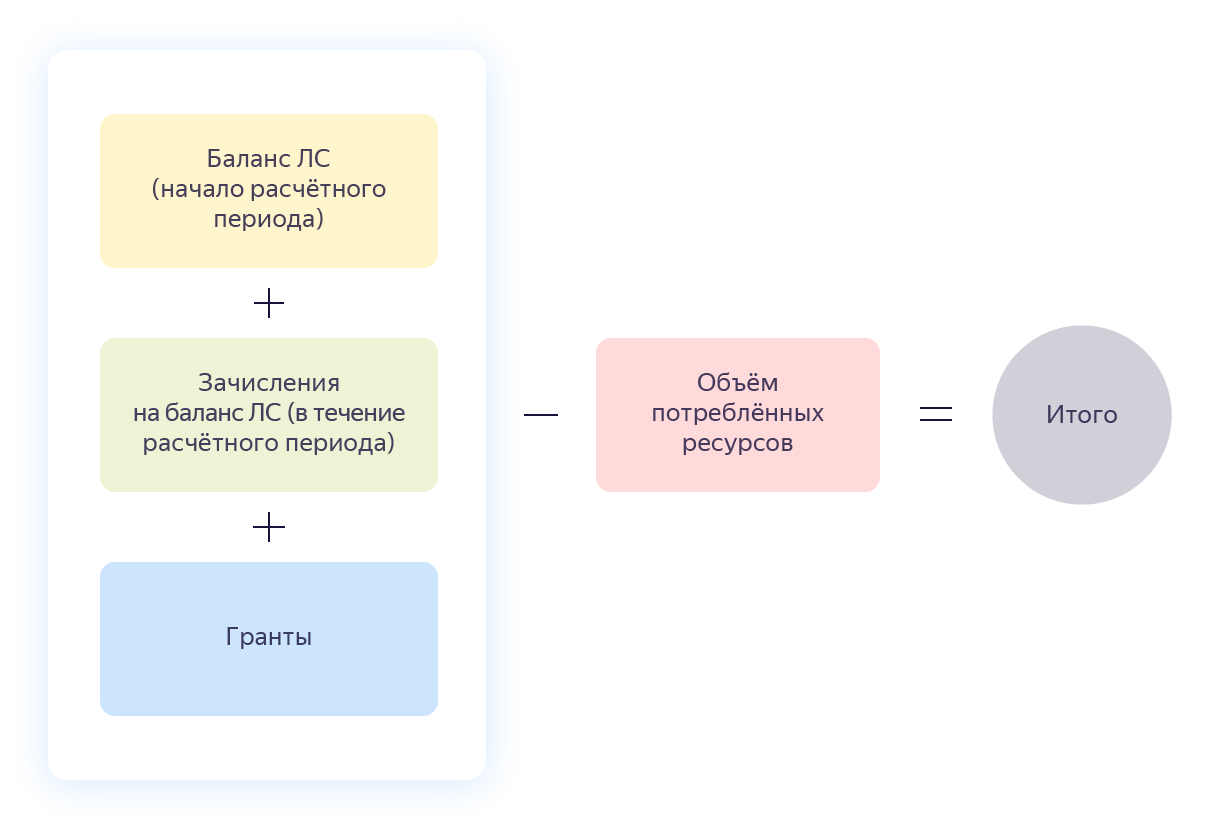
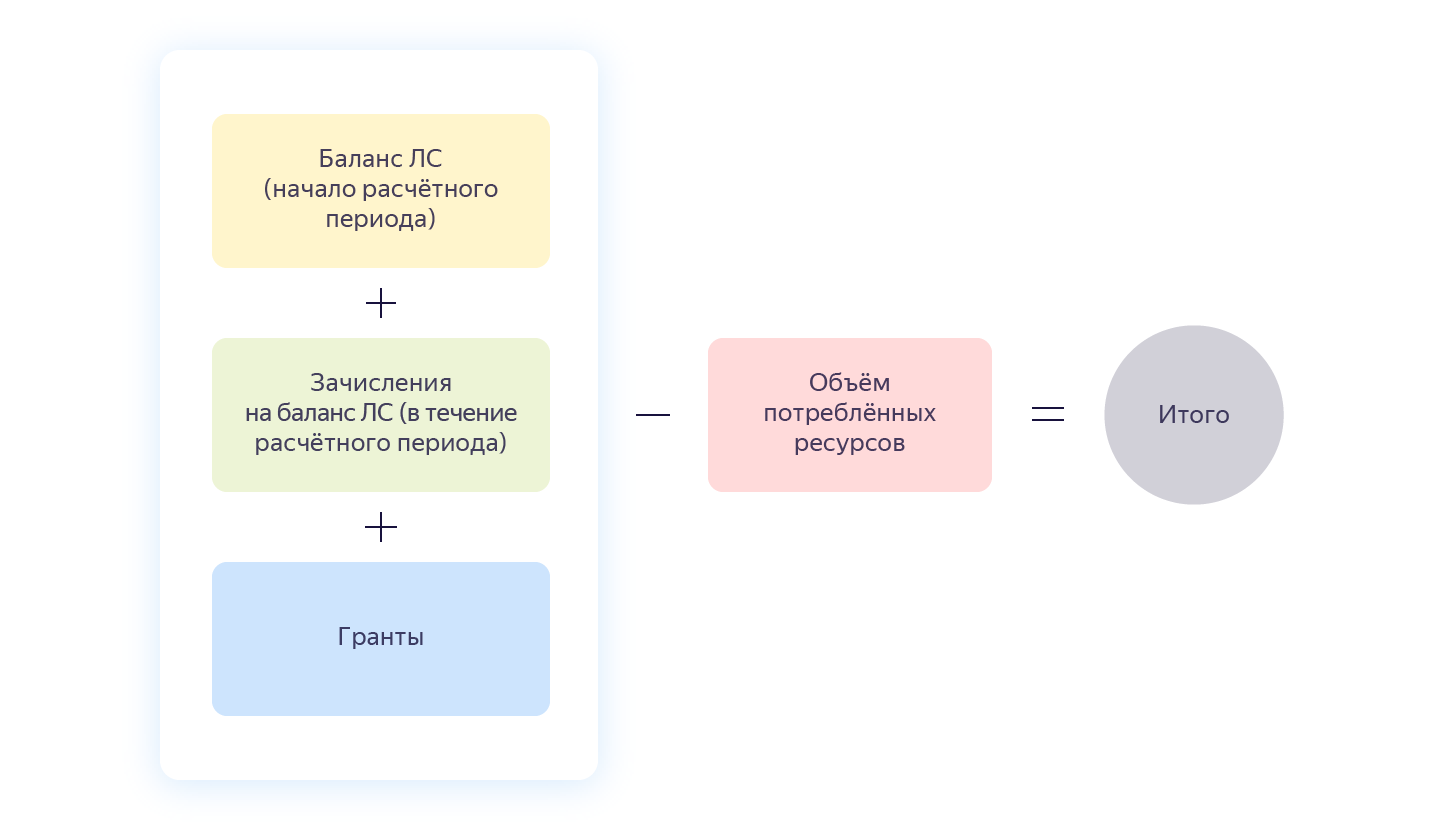
https://st.yandex-team.ru/DOCAPI-4802
замена картинок

diff --git a/ru/billing/_includes/payment-amount.md b/ru/billing/_includes/payment-amount.md
@@ -1,7 +1,7 @@
 Итоговая сумма списания зависит от того, был ли использован [грант](../concepts/bonus-account.md) и пополнялся ли [лицевой счет (ЛС)](../concepts/personal-account.md#balance) в течение расчетного периода.
 
 Сумма списания определяется по формуле:
-![](../_assets/formula.svg)
+![](../_assets/formula.png)
 
 
   ---  
